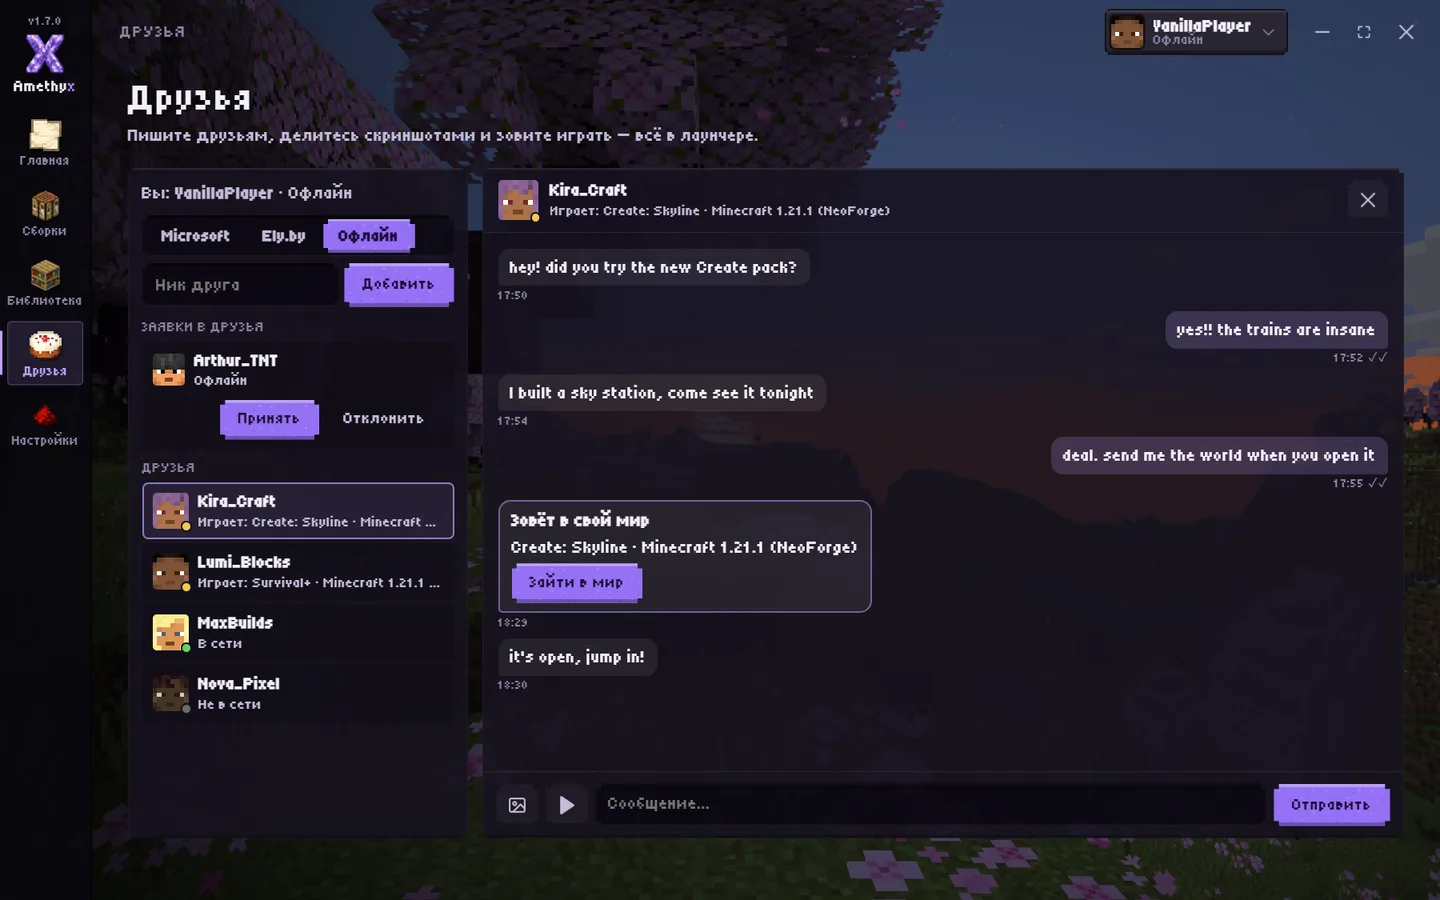
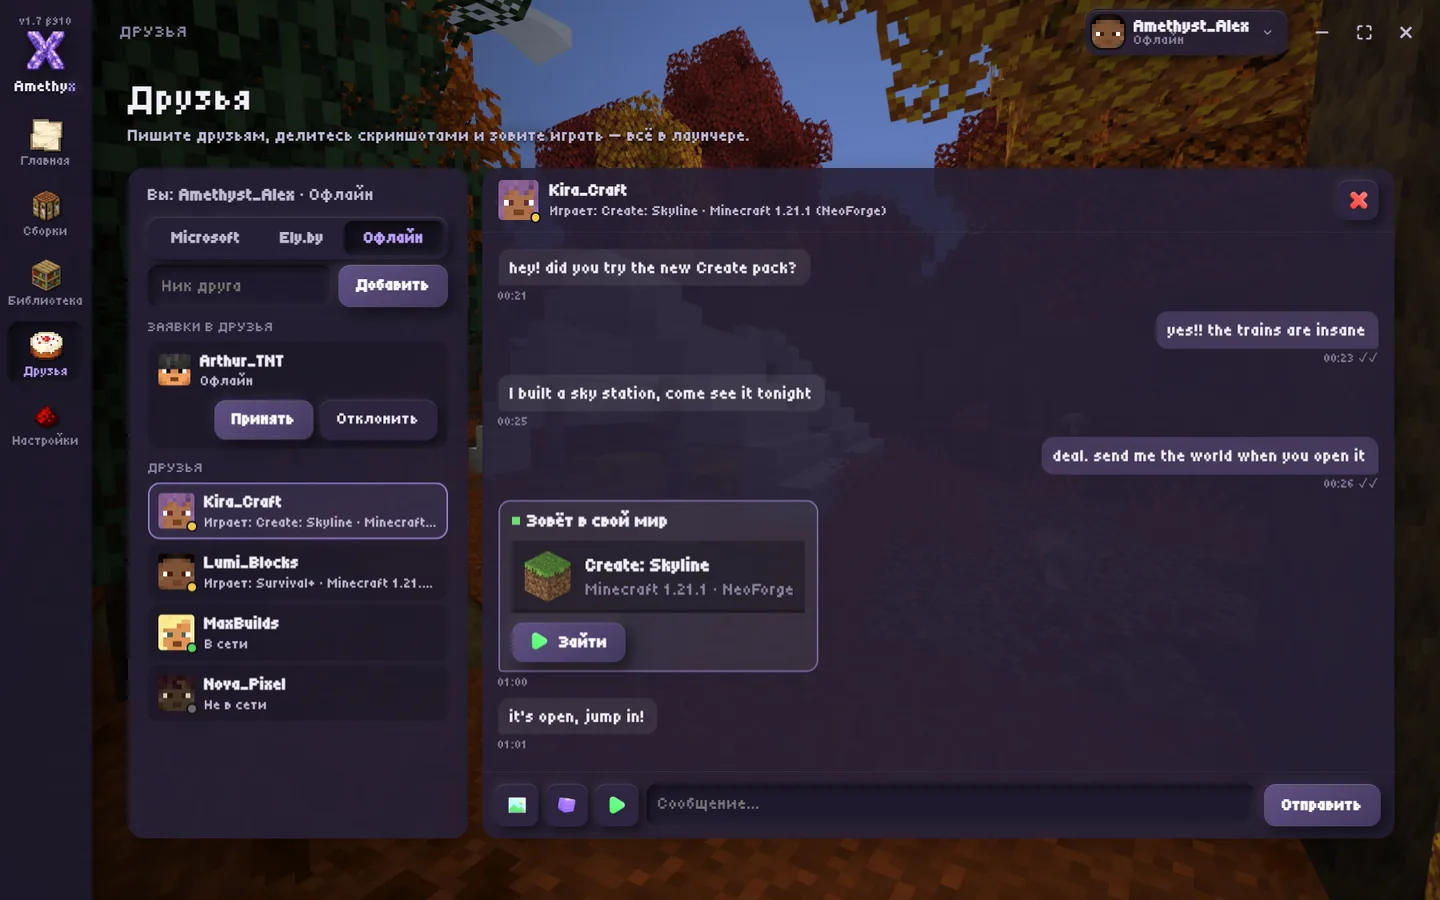
Website: new screenshots in the launcher's soft look
The six gallery pictures are retaken from the current launcher on a
test profile (made-up account and friends). Their links now carry
?v=<hash> like the scripts and styles, so a cached old picture is not
shown after an update.

diff --git a/website/index.html b/website/index.html
@@ -127,12 +127,12 @@
       <section class="section" id="shots">
         <h2 class="section__title reveal" data-i18n="shots.title">Скриншоты</h2>
         <div class="gallery">
-          <button class="shot reveal" type="button" data-full="assets/shots/mods.webp"><img src="assets/shots/mods.webp" alt="Моды сборки" loading="lazy" width="1440" height="900" /><span data-i18n="shots.mods">Моды сборки</span></button>
-          <button class="shot reveal" type="button" data-full="assets/shots/library.webp"><img src="assets/shots/library.webp" alt="Библиотека модов" loading="lazy" width="1440" height="900" /><span data-i18n="shots.library">Библиотека Modrinth и CurseForge</span></button>
-          <button class="shot reveal" type="button" data-full="assets/shots/wardrobe.webp"><img src="assets/shots/wardrobe.webp" alt="Гардероб" loading="lazy" width="1440" height="900" /><span data-i18n="shots.wardrobe">Гардероб скинов</span></button>
-          <button class="shot reveal" type="button" data-full="assets/shots/friends.webp"><img src="assets/shots/friends.webp" alt="Друзья и чат" loading="lazy" width="1440" height="900" /><span data-i18n="shots.friends">Друзья и чат</span></button>
-          <button class="shot reveal" type="button" data-full="assets/shots/servers.webp"><img src="assets/shots/servers.webp" alt="Сервер для хостинга" loading="lazy" width="1440" height="900" /><span data-i18n="shots.servers">Сервер для хостинга</span></button>
-          <button class="shot reveal" type="button" data-full="assets/shots/home.webp"><img src="assets/shots/home.webp" alt="Главный экран" loading="lazy" width="1440" height="900" /><span data-i18n="shots.home">Главный экран</span></button>
+          <button class="shot reveal" type="button" data-full="assets/shots/mods.webp?v=d4e04b50"><img src="assets/shots/mods.webp?v=d4e04b50" alt="Моды сборки" loading="lazy" width="1440" height="900" /><span data-i18n="shots.mods">Моды сборки</span></button>
+          <button class="shot reveal" type="button" data-full="assets/shots/library.webp?v=06aa1ad3"><img src="assets/shots/library.webp?v=06aa1ad3" alt="Библиотека модов" loading="lazy" width="1440" height="900" /><span data-i18n="shots.library">Библиотека Modrinth и CurseForge</span></button>
+          <button class="shot reveal" type="button" data-full="assets/shots/wardrobe.webp?v=3962f9cb"><img src="assets/shots/wardrobe.webp?v=3962f9cb" alt="Гардероб" loading="lazy" width="1440" height="900" /><span data-i18n="shots.wardrobe">Гардероб скинов</span></button>
+          <button class="shot reveal" type="button" data-full="assets/shots/friends.webp?v=719d6aac"><img src="assets/shots/friends.webp?v=719d6aac" alt="Друзья и чат" loading="lazy" width="1440" height="900" /><span data-i18n="shots.friends">Друзья и чат</span></button>
+          <button class="shot reveal" type="button" data-full="assets/shots/servers.webp?v=ac295eed"><img src="assets/shots/servers.webp?v=ac295eed" alt="Сервер для хостинга" loading="lazy" width="1440" height="900" /><span data-i18n="shots.servers">Сервер для хостинга</span></button>
+          <button class="shot reveal" type="button" data-full="assets/shots/home.webp?v=cfee9851"><img src="assets/shots/home.webp?v=cfee9851" alt="Главный экран" loading="lazy" width="1440" height="900" /><span data-i18n="shots.home">Главный экран</span></button>
         </div>
       </section>
 
